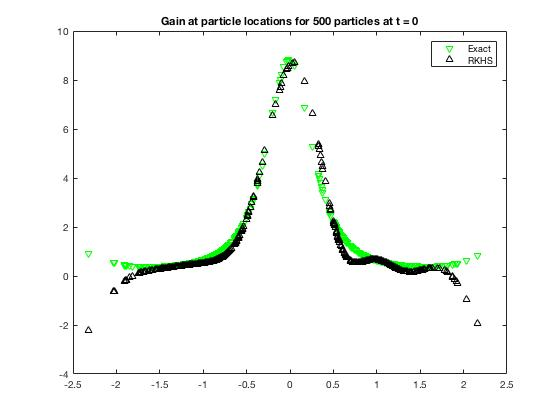
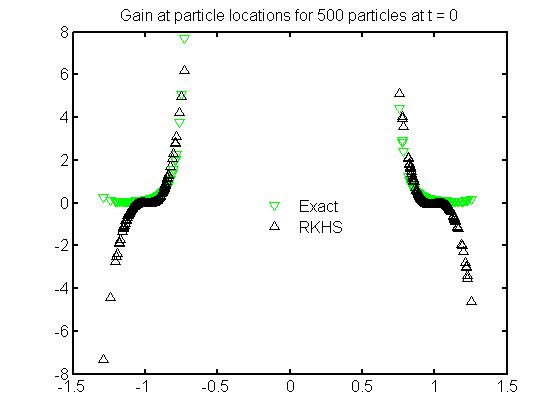
Added code to gain_rkhs.m for Coifman kernel. Not giving good results as of now.

diff --git a/gain_rkhs.m b/gain_rkhs.m
@@ -2,46 +2,51 @@ function [K] = gain_rkhs(Xi,c,kernel,lambda,epsilon,diag)
 % Returns the gain computed at particle locations Xi using an RKHS 
 % tic;
 N = length(Xi);
+simplified = 1;   % 0 for the optimal solution, 1 for the reduced complexity solution
 
 % Evaluation of kernel matrices 
 if kernel == 0  % Gaussian
-   Ker         =   exp(-(ones(N,1) * Xi - Xi' * ones(1,N)).^2/(4 * epsilon));        
+   Ker         =  exp(-(ones(N,1) * Xi - Xi' * ones(1,N)).^2/(4 * epsilon));        
    Ker_x       = -(ones(N,1) * Xi - Xi' * ones(1,N))/ (2 * epsilon) .* Ker;
-   Ker_x_y     = (ones(N,N) - (ones(N,1) * Xi - Xi' * ones(1,N)).^2 /(2 * epsilon))/(2 * epsilon) .* Ker;
+   if simplified == 0
+       Ker_x_y     = (ones(N,N) - (ones(N,1) * Xi - Xi' * ones(1,N)).^2 /(2 * epsilon))/(2 * epsilon) .* Ker;
+   end
    
-elseif kernel == 1  % Approximate Coifman basis, choosing epsilon = 0
-    
-    g         =  exp(-(ones(N,1) * Xi - Xi' * ones(1,N)).^2/(4 * epsilon));  % Basic Gaussian kernel for constructing Coifman kernel
-    
-    alpha_hat_y = sqrt(exp);
-    beta_hat_x  = sqrt(p_x);
-
-    tau_hat_x_y = (1/beta_hat_x) * g_x_y * alpha_hat_y;
-    grad_tau_hat_x_y = ((y-x)/(2*epsilon) + del_Utot_mf(x)/2)*tau_hat_x_y;
-
-    tau_hat_mf = matlabFunction(tau_hat_x_y);
-    grad_tau_hat_mf = matlabFunction(grad_tau_hat_x_y);
-
+elseif kernel == 1  % Approximate Coifman basis, choosing epsilon = 0    
+   g         =  exp(-(ones(N,1) * Xi - Xi' * ones(1,N)).^2/(4 * epsilon));  % Basic Gaussian kernel for constructing Coifman kernel
+  for pi = 1:1:N
+        for pj = 1:1:N
+            k(pi,pj) = g(pi,pj)./( sqrt( (1/N) * sum(g(pj,:)))); % Coifman kernel - sqrt( (1/N) * sum(g(pi,:)))
+        end
+        Ker(pi,:)  = k(pi,:)./sum(k(pi,:));                                       % Markov semigroup approximation
+  end
+  for pi = 1:1:N
+      sum_term(pi) = Ker(pi,:) * Xi';
+      for pj = 1:1:N
+          Ker_x(pi,pj)    = (1/(2 * epsilon)) * Ker(pi,pj)* (Xi(pj) - sum_term(pi));  % Gain computed for particle index pi
+      end
+  end
 end
     
-% Constructing block matrices for future use
- K_big      = [ Ker Ker_x ; Ker_x' Ker_x_y];
- K_thin_yxy = [ Ker_x ; Ker_x_y]; 
- K_thin_x   = [ Ker ; Ker_x'];
- 
  H     = c(Xi);       
  eta   = mean(c(Xi));
  Y           =  (H - eta)';
 % b used in simplified algorithm - searching on a smaller subspace of the Hilbert space H
  b_m         =  (1/N) * Ker * Y; 
+
+if simplified == 0
+     % Constructing block matrices for future use
+    K_big      = [ Ker Ker_x ; Ker_x' Ker_x_y];
+    K_thin_yxy = [ Ker_x ; Ker_x_y]; 
+    K_thin_x   = [ Ker ; Ker_x'];
 % b used in the extended representer theorem algorithm - searching over all of the Hilbert space H
- b_2m        =  (1/N) * K_thin_x * Y;
-    
- M_m  = lambda * Ker + (1/N) * Ker_x * Ker_x';
- M_2m = lambda * K_big + (1/N) * K_thin_yxy * K_thin_yxy';
-   
- beta_m  = M_m \ b_m;
- beta_2m = M_2m \ b_2m;   
+    b_2m        =  (1/N) * K_thin_x * Y;
+    M_2m = lambda * K_big + (1/N) * K_thin_yxy * K_thin_yxy';
+    beta_2m = M_2m \ b_2m;   
+else
+    M_m  = lambda * Ker + (1/N) * Ker_x * Ker_x';
+    beta_m  = M_m \ b_m;
+end  
         
  for pi = 1: 1 : N
      K(pi)     = 0;
@@ -49,8 +54,10 @@ end
      K_beta_dot_mi(pi) = 0;
      for pj = 1 : 1 : N
          K(pi)      = K(pi)     + beta_m(pj)  * Ker_x(pj,pi);
-         K_beta_2mi(pi)     = K_beta_2mi(pi)    + beta_2m(pj) * Ker_x(pj,pi) + beta_2m(N+pj) * Ker_x_y(pj,pi);
-         K_beta_dot_mi(pi)  = K_beta_dot_mi(pi) - beta_m(pj)  * Ker_x_y(pj,pi);
+         if simplified == 0
+            K_beta_2mi(pi)     = K_beta_2mi(pi)    + beta_2m(pj) * Ker_x(pj,pi) + beta_2m(N+pj) * Ker_x_y(pj,pi);
+            K_beta_dot_mi(pi)  = K_beta_dot_mi(pi) - beta_m(pj)  * Ker_x_y(pj,pi);
+         end
      end
  end
 % toc 
@@ -59,7 +66,22 @@ if diag == 1
     figure;
     plot(Xi,K,'b*');
     hold on;
-    plot(Xi,K_beta_2mi,'k^');
+    % plot(Xi,K_beta_2mi,'k^');
+    
+    for pi = 1:1:N
+        figure(1)
+        plot(Xi,Ker(pi,:),'r*');
+        hold on;
+        
+        figure(2)
+        plot(Xi,Ker_x(pi,:),'b*');
+        hold on;
+        
+        figure(3)
+        plot(Xi,k(pi,:),'r*');
+        hold on;
+        
+    end
 end
   
 end

diff --git a/FPF_main.m b/FPF_main.m
@@ -20,7 +20,7 @@ diag_fn = 0;     % Diagnostics flag, if 1, then all the functions display plots 
 
 exact = 1;           % Computes the exact gain and plots 
 fin   = 0;           % Computes gain using finite dimensional basis
-coif  = 0;           % Computes gain using Coifman kernel method
+coif  = 1;           % Computes gain using Coifman kernel method
 rkhs  = 1;           % Computes gain using RKHS
 
 %% FPF parameters
@@ -41,9 +41,9 @@ end
 
 % iii) RKHS
 if rkhs == 1
-   kernel   = 0;        % 0 for Gaussian kernel, 1 for Coifman kernel
-   lambda   = 0.01;     % Regularization parameter - Other tried values ( 0.005) 
-   eps_rkhs = 0.1;      % Variance parameter of the kernel  - Other tried values (0.25)
+   kernel   = 1;           % 0 for Gaussian kernel, 1 for Coifman kernel
+   lambda   = 1e-5;        % Regularization parameter - Other tried values ( 0.005,0.001,0.05) 
+   eps_rkhs = 0.05;        % Variance parameter of the kernel  - Other tried values (0.25,0.1), For Coifman kernel 0.05 is best
 end
 
 %% Parameters corresponding to the state and observation processes
@@ -61,7 +61,7 @@ sigmaW = 0.3;
 
 % Parameters of p(0) - 2 component Gaussian mixture density 
 m = 2;
-sigma = [0.1 0.1]; 
+sigma = [0.4 0.4]; 
 mu    = [-1 1]; 
 w     = [0.5 rand]; % Needs to add up to 1.
 w(m)  = 1 - sum(w(1:m-1));
@@ -70,7 +70,6 @@ w(m)  = 1 - sum(w(1:m-1));
 sdt = sqrt(dt);
 
 c_x = matlabFunction(c);
-
 
 %% State and observation process
 % Initialization
@@ -189,7 +188,7 @@ for k = 2: 1: (T/dt)
        end
        
        figure(100);
-       plot(range, p_t,'DisplayName',['Using exact at t = ' num2str( (k-1)*dt )]);
+       plot(range, p_t,'DisplayName',['Smoothed density using exact at t = ' num2str( (k-1)*dt )]);
        hold on;
        v = version('-release');
        if (v == '2014a')
@@ -206,13 +205,13 @@ for k = 2: 1: (T/dt)
             if fin == 1
              % CAUTION : histogram command works only in recent Matlab
              % versions, if it does not work, comment this section out
-               histogram(Xi_fin(k-1,:),'Normalization','pdf','DisplayStyle','stairs','BinWidth',step,'BinLimits',[ min(mu_em) - 3 * max(sigma_em), max(mu_em) + 3 * max(sigma_em)],'DisplayName',['Using finite at t =' num2str( (k-1)*dt )]);
+               histogram(Xi_fin(k-1,:),'Normalization','pdf','DisplayStyle','stairs','BinWidth',step,'BinLimits',[ min(mu_em) - 3 * max(sigma_em), max(mu_em) + 3 * max(sigma_em)],'DisplayName',['Histogram using finite at t =' num2str( (k-1)*dt )]);
             end
             if coif == 1
-               histogram(Xi_coif(k-1,:),'Normalization','pdf','DisplayStyle','stairs','BinWidth',step,'BinLimits',[ min(mu_em) - 3 * max(sigma_em), max(mu_em) + 3 * max(sigma_em)],'DisplayName',['Using Coifman at t =' num2str( (k-1)*dt )]);
+               histogram(Xi_coif(k-1,:),'Normalization','pdf','DisplayStyle','stairs','BinWidth',step,'BinLimits',[ min(mu_em) - 3 * max(sigma_em), max(mu_em) + 3 * max(sigma_em)],'DisplayName',['Histogram using Coifman at t =' num2str( (k-1)*dt )]);
             end
             if rkhs == 1
-               histogram(Xi_rkhs(k-1,:),'Normalization','pdf','DisplayStyle','stairs','BinWidth',step,'BinLimits',[ min(mu_em) - 3 * max(sigma_em), max(mu_em) + 3 * max(sigma_em)],'DisplayName',['Using RKHS at t =' num2str( (k-1)*dt )]);
+               histogram(Xi_rkhs(k-1,:),'Normalization','pdf','DisplayStyle','stairs','BinWidth',step,'BinLimits',[ min(mu_em) - 3 * max(sigma_em), max(mu_em) + 3 * max(sigma_em)],'DisplayName',['Histogram using RKHS at t =' num2str( (k-1)*dt )]);
             end
        end  
        legend('show');
